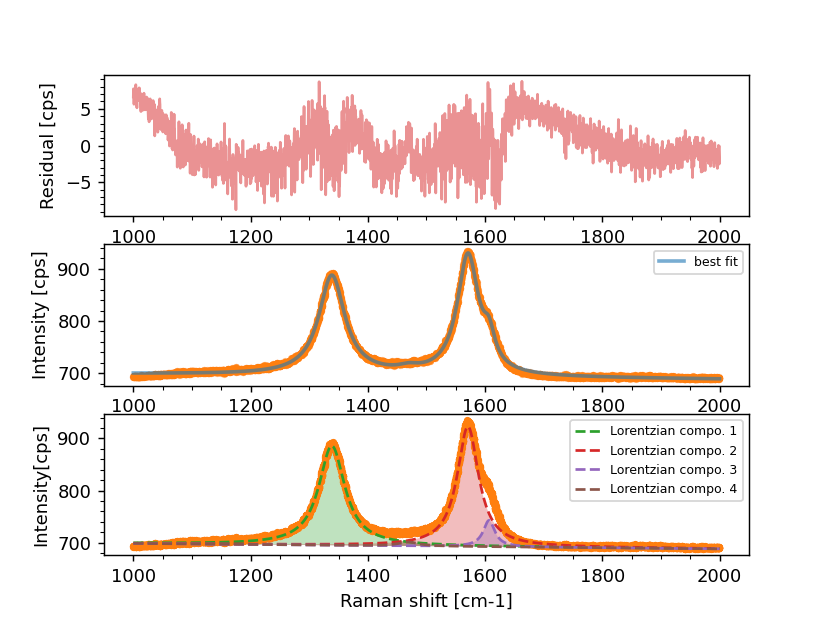
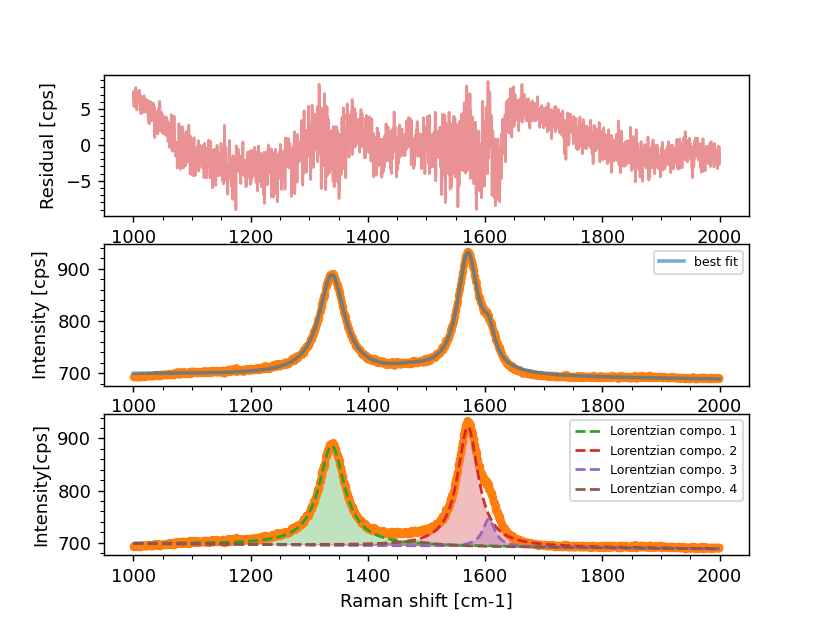
modified:   20210726MJ_MWI_28ul_std-D1.csv 	modified:   20210726MJ_MWI_28ul_std-D1.png 	modified:   ramanfit_streamlit_app.py

diff --git a/ramanfit_streamlit_app.py b/ramanfit_streamlit_app.py
@@ -91,22 +91,22 @@ lorentz2 = LorentzianModel(prefix='l2_')  # G peak
 pars.update(lorentz2.make_params())
 
 pars['l2_center'].set(value=1550, min=1500, max=1590)
-pars['l2_sigma'].set(value=23, min=5)
+pars['l2_sigma'].set(value=15, min=3)
 pars['l2_amplitude'].set(value=15000, min=5)
 #pars
 
 lorentz3 = LorentzianModel(prefix='l3_') # G' peak
 pars.update(lorentz3.make_params())
-pars['l3_center'].set(value=1603, min=1595, max=1620)
+pars['l3_center'].set(value=1603, min=1590, max=1620)
 pars['l3_sigma'].set(value=10, min=5, max=100)
 pars['l3_amplitude'].set(value=1000, min=5)
 #pars
 
 lorentz4 = LorentzianModel(prefix='l4_') # amorphous peak
 pars.update(lorentz4.make_params())
-pars['l4_center'].set(value=1500, min=1450, max=1520)
+pars['l4_center'].set(value=1500, min=1440, max=1520)
 pars['l4_sigma'].set(value=10, min=5, max=100)
-pars['l4_amplitude'].set(value=100, min=5, max=500)
+pars['l4_amplitude'].set(value=100, min=2, max=5000)
 
 mod = lorentz1 + lorentz2 + lorentz3 + lorentz4 + bg
 init = mod.eval(pars, x=xDG)
